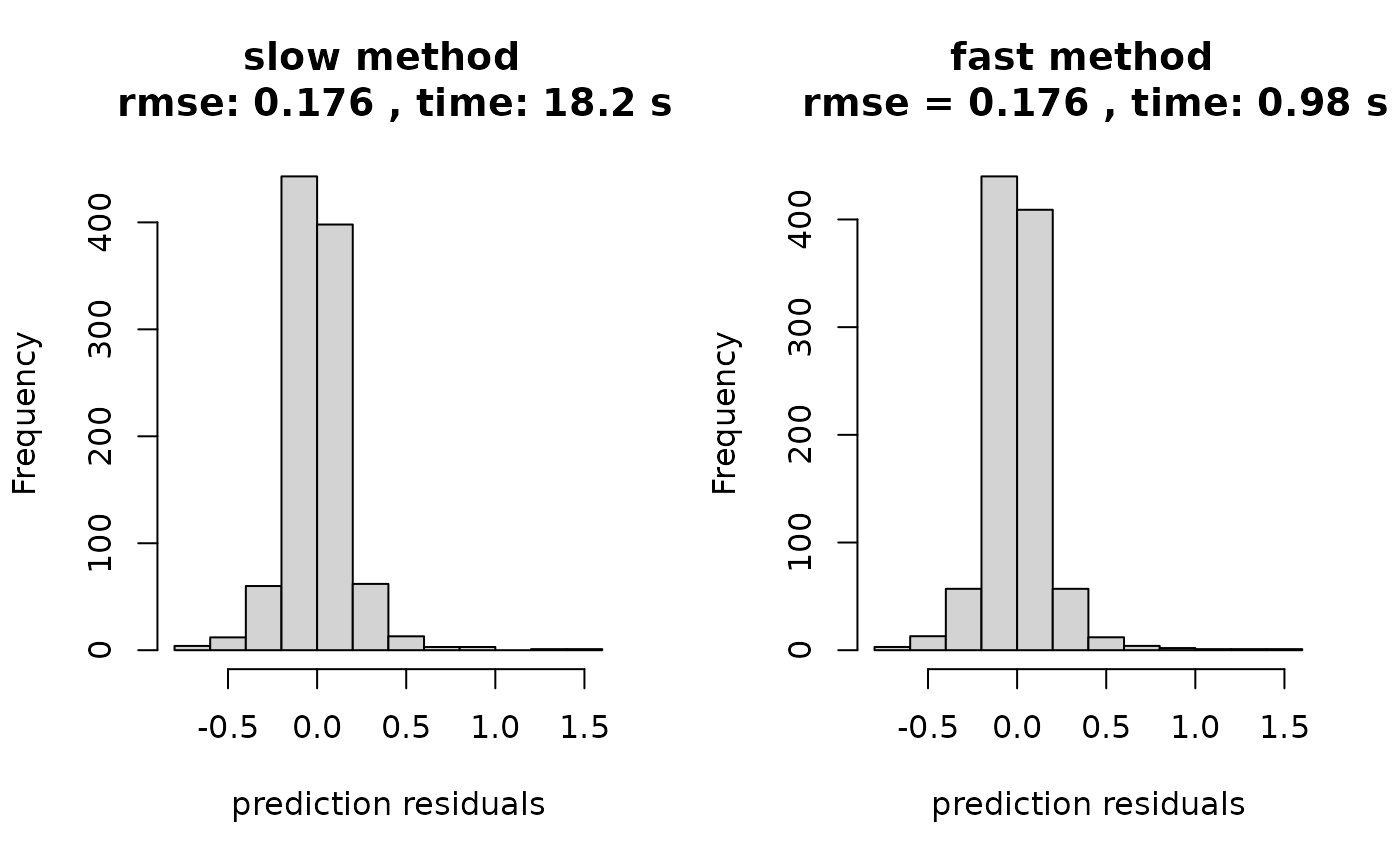
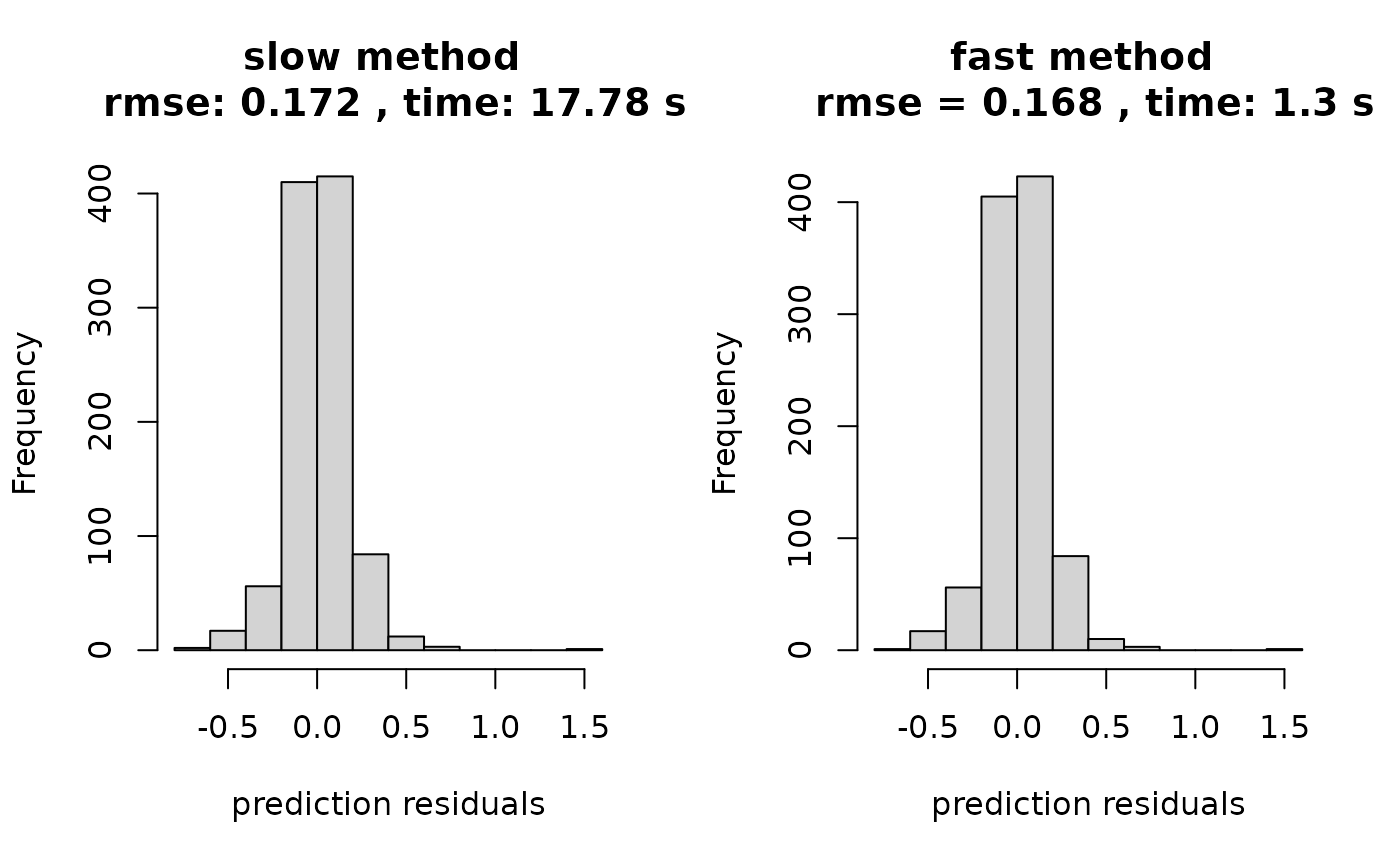
Built site for outerbase: 0.1.0@d79331a

diff --git a/articles/learning.html b/articles/learning.html
@@ -156,15 +156,15 @@
 <span class="va">coeffhere</span> <span class="op">=</span> <span class="fu"><a href="https://rdrr.io/r/base/rep.html" class="external-link">rep</a></span><span class="op">(</span><span class="fl">0</span>,<span class="va">loglik</span><span class="op">$</span><span class="va">nterms</span><span class="op">)</span>
 <span class="va">loglik</span><span class="op">$</span><span class="fu">update</span><span class="op">(</span><span class="va">coeffhere</span><span class="op">)</span> <span class="co"># update it to get gradients</span>
 <span class="va">loglik</span><span class="op">$</span><span class="va">val</span>
-<span class="co">#&gt; [1] -158.9773</span>
+<span class="co">#&gt; [1] -167.617</span>
 <span class="fu"><a href="https://rdrr.io/r/utils/head.html" class="external-link">head</a></span><span class="op">(</span><span class="va">loglik</span><span class="op">$</span><span class="va">grad</span><span class="op">)</span> <span class="co"># dim 60 for number of coeffients</span>
 <span class="co">#&gt;            [,1]</span>
-<span class="co">#&gt; [1,]  0.1119043</span>
-<span class="co">#&gt; [2,] -0.8130878</span>
-<span class="co">#&gt; [3,]  2.6554610</span>
-<span class="co">#&gt; [4,] -0.2983242</span>
-<span class="co">#&gt; [5,] -0.7287453</span>
-<span class="co">#&gt; [6,]  0.4638779</span></code></pre></div>
+<span class="co">#&gt; [1,] -0.1142062</span>
+<span class="co">#&gt; [2,] -0.7362125</span>
+<span class="co">#&gt; [3,] -0.4712837</span>
+<span class="co">#&gt; [4,]  3.5520678</span>
+<span class="co">#&gt; [5,]  0.2677359</span>
+<span class="co">#&gt; [6,] -0.5759347</span></code></pre></div>
 <p>A reasonable predictor also needs prior on the coefficients. This tells us what distribution we expect on the coefficients.</p>
 <div class="sourceCode" id="cb10"><pre class="downlit sourceCode r">
 <code class="sourceCode R"><span class="va">logpr</span> <span class="op">=</span> <span class="fu">new</span><span class="op">(</span><span class="va">logpr_gauss</span>, <span class="va">om</span>, <span class="va">terms</span><span class="op">)</span></code></pre></div>
@@ -176,7 +176,7 @@
 <span class="va">logpdf</span><span class="op">$</span><span class="fu">updatepara</span><span class="op">(</span><span class="va">para0</span><span class="op">)</span>
 <span class="fu"><a href="../reference/getpara.html">getpara</a></span><span class="op">(</span><span class="va">logpdf</span><span class="op">)</span>
 <span class="co">#&gt; noisescale coeffscale </span>
-<span class="co">#&gt;    3.08248    4.00000</span></code></pre></div>
+<span class="co">#&gt;   2.883507   4.000000</span></code></pre></div>
 <p>The coefficients <code>coeff</code> are considered ancillary parameters that need to be optimized out (or something more sophisticated, hint on current research). For this class, it is easiest to do this via <code>lpdf$optnewton</code>, which takes a single Newton step to optimize the coefficients.</p>
 <div class="sourceCode" id="cb12"><pre class="downlit sourceCode r">
 <code class="sourceCode R"><span class="va">logpdf</span><span class="op">$</span><span class="fu">optnewton</span><span class="op">(</span><span class="op">)</span></code></pre></div>
@@ -207,16 +207,16 @@
 <code class="sourceCode R"><span class="va">logpdf</span><span class="op">$</span><span class="fu">optnewton</span><span class="op">(</span><span class="op">)</span>
 <span class="va">logpdf</span><span class="op">$</span><span class="va">gradhyp</span>    <span class="co"># dim 6 for all hyperparameter</span>
 <span class="co">#&gt;            [,1]</span>
-<span class="co">#&gt; [1,] -1.5804993</span>
-<span class="co">#&gt; [2,]  0.1362988</span>
-<span class="co">#&gt; [3,]  7.3195108</span>
-<span class="co">#&gt; [4,]  0.7360618</span>
-<span class="co">#&gt; [5,]  6.6477736</span>
-<span class="co">#&gt; [6,]  0.7611804</span>
+<span class="co">#&gt; [1,] -0.5379479</span>
+<span class="co">#&gt; [2,]  0.2656740</span>
+<span class="co">#&gt; [3,]  9.1485696</span>
+<span class="co">#&gt; [4,]  0.9366525</span>
+<span class="co">#&gt; [5,]  8.8462368</span>
+<span class="co">#&gt; [6,]  0.8878728</span>
 <span class="va">logpdf</span><span class="op">$</span><span class="va">gradpara</span>   <span class="co"># dim 2 since 2 parameters</span>
 <span class="co">#&gt;            [,1]</span>
-<span class="co">#&gt; [1,] -18.605157</span>
-<span class="co">#&gt; [2,]  -1.626949</span></code></pre></div>
+<span class="co">#&gt; [1,] -17.314951</span>
+<span class="co">#&gt; [2,]  -3.696204</span></code></pre></div>
 <p>This allows us to use custom functions to learn these hyperparameters to give maximum predictive power. The goal right now is a single point estimate of these hyperparameters. One has to be very careful to keep these in good ranges, and the call below will make sure to return <code>-inf</code> if there is a problem with the chosen hyperparameters.</p>
 <div class="sourceCode" id="cb16"><pre class="downlit sourceCode r">
 <code class="sourceCode R"><span class="va">totobj</span> <span class="op">=</span> <span class="kw">function</span><span class="op">(</span><span class="va">hypl</span><span class="op">)</span> <span class="op">{</span> <span class="co">#my optimization function for tuning</span>
@@ -238,50 +238,56 @@
 <code class="sourceCode R"><span class="va">hypl</span> <span class="op">=</span> <span class="fu"><a href="https://rdrr.io/r/base/list.html" class="external-link">list</a></span><span class="op">(</span>para <span class="op">=</span> <span class="fu"><a href="../reference/getpara.html">getpara</a></span><span class="op">(</span><span class="va">logpdf</span><span class="op">)</span>, hyp <span class="op">=</span> <span class="fu"><a href="../reference/gethyp.html">gethyp</a></span><span class="op">(</span><span class="va">om</span><span class="op">)</span><span class="op">)</span>
 <span class="fu">totobj</span><span class="op">(</span><span class="va">hypl</span><span class="op">)</span>
 <span class="co">#&gt; $val</span>
-<span class="co">#&gt; [1] 87.26913</span>
+<span class="co">#&gt; [1] 83.1685</span>
 <span class="co">#&gt; </span>
 <span class="co">#&gt; $gval</span>
 <span class="co">#&gt; $gval$para</span>
 <span class="co">#&gt;           [,1]</span>
-<span class="co">#&gt; [1,] 18.605157</span>
-<span class="co">#&gt; [2,]  1.126949</span>
+<span class="co">#&gt; [1,] 17.314951</span>
+<span class="co">#&gt; [2,]  3.196204</span>
 <span class="co">#&gt; </span>
 <span class="co">#&gt; $gval$hyp</span>
 <span class="co">#&gt;             [,1]</span>
-<span class="co">#&gt; [1,]  -3.7766436</span>
-<span class="co">#&gt; [2,]  -0.1362988</span>
-<span class="co">#&gt; [3,] -12.6766537</span>
-<span class="co">#&gt; [4,]  -0.7360618</span>
-<span class="co">#&gt; [5,] -12.0049165</span>
-<span class="co">#&gt; [6,]  -0.7611804</span>
+<span class="co">#&gt; [1,]  -4.8191949</span>
+<span class="co">#&gt; [2,]  -0.2656740</span>
+<span class="co">#&gt; [3,] -14.5057125</span>
+<span class="co">#&gt; [4,]  -0.9366525</span>
+<span class="co">#&gt; [5,] -14.2033796</span>
+<span class="co">#&gt; [6,]  -0.8878728</span>
 <span class="va">opth</span> <span class="op">=</span> <span class="fu"><a href="../reference/BFGS_std.html">BFGS_std</a></span><span class="op">(</span><span class="va">totobj</span>, <span class="va">hypl</span>, verbose<span class="op">=</span><span class="fl">3</span><span class="op">)</span> <span class="co">#</span>
 <span class="co">#&gt; [1] "doing opt..."</span>
 <span class="co">#&gt; [1] "Wolfe conditions"</span>
-<span class="co">#&gt; [1]  -2.527114 -45.089116</span>
-<span class="co">#&gt; [1] 84.74152</span>
+<span class="co">#&gt; [1]  -3.108195 -45.489967</span>
+<span class="co">#&gt; [1] 80.05974</span>
 <span class="co">#&gt; [1] "Wolfe conditions"</span>
-<span class="co">#&gt; [1] -1.0278201  0.7589383</span>
-<span class="co">#&gt; [1] 77.25422</span>
+<span class="co">#&gt; [1] -1.1202703  0.7819948</span>
+<span class="co">#&gt; [1] 75.77655</span>
 <span class="co">#&gt; [1] "Wolfe conditions"</span>
-<span class="co">#&gt; [1] -13.69616 -52.67214</span>
-<span class="co">#&gt; [1] 63.55475</span>
+<span class="co">#&gt; [1] -14.34444 -19.93960</span>
+<span class="co">#&gt; [1] 61.43021</span>
 <span class="co">#&gt; [1] "Wolfe conditions"</span>
-<span class="co">#&gt; [1]  -8.325354 -16.041241</span>
-<span class="co">#&gt; [1] 55.22768</span>
+<span class="co">#&gt; [1] -5.327744 -4.157325</span>
+<span class="co">#&gt; [1] 56.1018</span>
 <span class="co">#&gt; [1] "Wolfe conditions"</span>
-<span class="co">#&gt; [1] -7.804353 -1.335376</span>
-<span class="co">#&gt; [1] 47.42244</span>
+<span class="co">#&gt; [1] -6.808514 -3.315549</span>
+<span class="co">#&gt; [1] 49.29249</span>
 <span class="co">#&gt; [1] "Wolfe conditions"</span>
-<span class="co">#&gt; [1] -16.00359 -22.97817</span>
-<span class="co">#&gt; [1] 31.41597</span>
+<span class="co">#&gt; [1] -9.311435 -8.292266</span>
+<span class="co">#&gt; [1] 39.97985</span>
 <span class="co">#&gt; [1] "Wolfe conditions"</span>
-<span class="co">#&gt; [1] -0.979854 -2.293233</span>
-<span class="co">#&gt; [1] 30.43589</span>
+<span class="co">#&gt; [1] -5.732378 -3.352411</span>
+<span class="co">#&gt; [1] 34.24677</span>
 <span class="co">#&gt; [1] "Wolfe conditions"</span>
-<span class="co">#&gt; [1] -0.0514279 -0.4289897</span>
-<span class="co">#&gt; [1] 30.38443</span>
+<span class="co">#&gt; [1] -5.021418 -6.928486</span>
+<span class="co">#&gt; [1] 29.22464</span>
 <span class="co">#&gt; [1] "Wolfe conditions"</span>
-<span class="co">#&gt; [1] -0.04258925 -0.10586358</span>
+<span class="co">#&gt; [1] -0.6595542 -5.5666767</span>
+<span class="co">#&gt; [1] 28.56484</span>
+<span class="co">#&gt; [1] "Wolfe conditions"</span>
+<span class="co">#&gt; [1] -0.4196691 -0.5877661</span>
+<span class="co">#&gt; [1] 28.14511</span>
+<span class="co">#&gt; [1] "Wolfe conditions"</span>
+<span class="co">#&gt; [1] -0.04979228 -0.05796315</span>
 <span class="co">#&gt; [1] "finished opt..."</span></code></pre></div>
 <p>Then we just have to update out parameters and re-optimize.</p>
 <div class="sourceCode" id="cb18"><pre class="downlit sourceCode r">
@@ -295,31 +301,37 @@
                  verbose <span class="op">=</span> <span class="fl">3</span>, newt<span class="op">=</span> <span class="cn">T</span><span class="op">)</span>  
 <span class="co">#&gt; [1] "doing opt..."</span>
 <span class="co">#&gt; [1] "Wolfe conditions"</span>
-<span class="co">#&gt; [1]  -2.527114 -45.089116</span>
-<span class="co">#&gt; [1] 84.74152</span>
+<span class="co">#&gt; [1]  -3.108195 -45.489967</span>
+<span class="co">#&gt; [1] 80.05974</span>
 <span class="co">#&gt; [1] "Wolfe conditions"</span>
-<span class="co">#&gt; [1] -1.0278201  0.7589383</span>
-<span class="co">#&gt; [1] 77.25422</span>
+<span class="co">#&gt; [1] -1.1202703  0.7819948</span>
+<span class="co">#&gt; [1] 75.77655</span>
 <span class="co">#&gt; [1] "Wolfe conditions"</span>
-<span class="co">#&gt; [1] -13.69616 -52.67214</span>
-<span class="co">#&gt; [1] 63.55475</span>
+<span class="co">#&gt; [1] -14.34444 -19.93960</span>
+<span class="co">#&gt; [1] 61.43021</span>
 <span class="co">#&gt; [1] "Wolfe conditions"</span>
-<span class="co">#&gt; [1]  -8.325354 -16.041241</span>
-<span class="co">#&gt; [1] 55.22768</span>
+<span class="co">#&gt; [1] -5.327744 -4.157325</span>
+<span class="co">#&gt; [1] 56.1018</span>
 <span class="co">#&gt; [1] "Wolfe conditions"</span>
-<span class="co">#&gt; [1] -7.804353 -1.335376</span>
-<span class="co">#&gt; [1] 47.42244</span>
+<span class="co">#&gt; [1] -6.808514 -3.315549</span>
+<span class="co">#&gt; [1] 49.29249</span>
 <span class="co">#&gt; [1] "Wolfe conditions"</span>
-<span class="co">#&gt; [1] -16.00359 -22.97817</span>
-<span class="co">#&gt; [1] 31.41597</span>
+<span class="co">#&gt; [1] -9.311435 -8.292266</span>
+<span class="co">#&gt; [1] 39.97985</span>
 <span class="co">#&gt; [1] "Wolfe conditions"</span>
-<span class="co">#&gt; [1] -0.979854 -2.293233</span>
-<span class="co">#&gt; [1] 30.43589</span>
+<span class="co">#&gt; [1] -5.732378 -3.352411</span>
+<span class="co">#&gt; [1] 34.24677</span>
 <span class="co">#&gt; [1] "Wolfe conditions"</span>
-<span class="co">#&gt; [1] -0.0514279 -0.4289897</span>
-<span class="co">#&gt; [1] 30.38443</span>
+<span class="co">#&gt; [1] -5.021418 -6.928486</span>
+<span class="co">#&gt; [1] 29.22464</span>
 <span class="co">#&gt; [1] "Wolfe conditions"</span>
-<span class="co">#&gt; [1] -0.04258925 -0.10586358</span>
+<span class="co">#&gt; [1] -0.6595542 -5.5666767</span>
+<span class="co">#&gt; [1] 28.56484</span>
+<span class="co">#&gt; [1] "Wolfe conditions"</span>
+<span class="co">#&gt; [1] -0.4196691 -0.5877661</span>
+<span class="co">#&gt; [1] 28.14511</span>
+<span class="co">#&gt; [1] "Wolfe conditions"</span>
+<span class="co">#&gt; [1] -0.04979228 -0.05796315</span>
 <span class="co">#&gt; [1] "finished opt..."</span></code></pre></div>
 <p>The revised predictions are then built after hyperparameter optimization where we find improved predictive accuracy in nearly every category.</p>
 <div class="sourceCode" id="cb20"><pre class="downlit sourceCode r">

diff --git a/articles/basebasics.html b/articles/basebasics.html
@@ -232,11 +232,11 @@
 <span class="fu"><a href="https://rdrr.io/r/utils/head.html" class="external-link">head</a></span><span class="op">(</span><span class="va">terms</span><span class="op">)</span>
 <span class="co">#&gt;      [,1] [,2] [,3]</span>
 <span class="co">#&gt; [1,]    0    0    0</span>
-<span class="co">#&gt; [2,]    0    1    0</span>
-<span class="co">#&gt; [3,]    0    0    1</span>
-<span class="co">#&gt; [4,]    1    0    0</span>
-<span class="co">#&gt; [5,]    0    1    1</span>
-<span class="co">#&gt; [6,]    1    1    0</span></code></pre></div>
+<span class="co">#&gt; [2,]    0    0    1</span>
+<span class="co">#&gt; [3,]    1    0    0</span>
+<span class="co">#&gt; [4,]    0    1    0</span>
+<span class="co">#&gt; [5,]    1    1    0</span>
+<span class="co">#&gt; [6,]    1    0    1</span></code></pre></div>
 <p><code>outermod$getvar</code> will tell us the vector of variances associated with these coefficients at these <code>terms</code>.</p>
 <div class="sourceCode" id="cb20"><pre class="downlit sourceCode r">
 <code class="sourceCode R"><span class="va">covcoeff</span> <span class="op">=</span> <span class="fu"><a href="https://rdrr.io/r/base/vector.html" class="external-link">as.vector</a></span><span class="op">(</span><span class="va">om</span><span class="op">$</span><span class="fu">getvar</span><span class="op">(</span><span class="va">terms</span><span class="op">)</span><span class="op">)</span></code></pre></div>
@@ -250,12 +250,12 @@
   <span class="va">ob</span><span class="op">$</span><span class="fu">getbase</span><span class="op">(</span><span class="fl">3</span><span class="op">)</span><span class="op">[</span>,<span class="va">terms</span><span class="op">[</span><span class="va">termno</span>,<span class="fl">3</span><span class="op">]</span><span class="op">+</span><span class="fl">1</span><span class="op">]</span>
 
 <span class="fu"><a href="https://rdrr.io/r/base/cbind.html" class="external-link">cbind</a></span><span class="op">(</span><span class="va">basevec</span><span class="op">[</span><span class="fl">1</span><span class="op">:</span><span class="fl">5</span><span class="op">]</span>,<span class="va">basismat</span><span class="op">[</span><span class="fl">1</span><span class="op">:</span><span class="fl">5</span>,<span class="fl">5</span><span class="op">]</span><span class="op">)</span> <span class="co">#equal</span>
-<span class="co">#&gt;            [,1]       [,2]</span>
-<span class="co">#&gt; [1,] -0.3904776 -0.3904776</span>
-<span class="co">#&gt; [2,]  1.1182864  1.1182864</span>
-<span class="co">#&gt; [3,]  1.5106317  1.5106317</span>
-<span class="co">#&gt; [4,]  1.5916723  1.5916723</span>
-<span class="co">#&gt; [5,] -1.7484999 -1.7484999</span></code></pre></div>
+<span class="co">#&gt;             [,1]        [,2]</span>
+<span class="co">#&gt; [1,]  1.04581481  1.04581481</span>
+<span class="co">#&gt; [2,]  0.48401755  0.48401755</span>
+<span class="co">#&gt; [3,]  1.26856977  1.26856977</span>
+<span class="co">#&gt; [4,] -0.24727429 -0.24727429</span>
+<span class="co">#&gt; [5,] -0.08951811 -0.08951811</span></code></pre></div>
 </div>
 </div>
 <div class="section level2">
@@ -268,18 +268,18 @@
 
 <span class="fu"><a href="https://rdrr.io/r/base/print.html" class="external-link">print</a></span><span class="op">(</span><span class="fu"><a href="https://rdrr.io/r/base/Round.html" class="external-link">round</a></span><span class="op">(</span><span class="va">cormattot</span><span class="op">[</span><span class="fl">1</span><span class="op">:</span><span class="fl">5</span>,<span class="fl">1</span><span class="op">:</span><span class="fl">5</span><span class="op">]</span>,<span class="fl">3</span><span class="op">)</span><span class="op">)</span> <span class="co"># typical gp</span>
 <span class="co">#&gt;       [,1]  [,2]  [,3]  [,4]  [,5]</span>
-<span class="co">#&gt; [1,] 1.000 0.575 0.827 0.491 0.411</span>
-<span class="co">#&gt; [2,] 0.575 1.000 0.344 0.928 0.414</span>
-<span class="co">#&gt; [3,] 0.827 0.344 1.000 0.314 0.519</span>
-<span class="co">#&gt; [4,] 0.491 0.928 0.314 1.000 0.513</span>
-<span class="co">#&gt; [5,] 0.411 0.414 0.519 0.513 1.000</span>
+<span class="co">#&gt; [1,] 1.000 0.985 0.531 0.545 0.802</span>
+<span class="co">#&gt; [2,] 0.985 1.000 0.537 0.597 0.860</span>
+<span class="co">#&gt; [3,] 0.531 0.537 1.000 0.875 0.729</span>
+<span class="co">#&gt; [4,] 0.545 0.597 0.875 1.000 0.857</span>
+<span class="co">#&gt; [5,] 0.802 0.860 0.729 0.857 1.000</span>
 <span class="fu"><a href="https://rdrr.io/r/base/print.html" class="external-link">print</a></span><span class="op">(</span><span class="fu"><a href="https://rdrr.io/r/base/Round.html" class="external-link">round</a></span><span class="op">(</span><span class="va">cormatob</span><span class="op">[</span><span class="fl">1</span><span class="op">:</span><span class="fl">5</span>,<span class="fl">1</span><span class="op">:</span><span class="fl">5</span><span class="op">]</span>,<span class="fl">3</span><span class="op">)</span><span class="op">)</span> <span class="co"># outerbase</span>
 <span class="co">#&gt;       [,1]  [,2]  [,3]  [,4]  [,5]</span>
-<span class="co">#&gt; [1,] 1.000 0.575 0.827 0.491 0.411</span>
-<span class="co">#&gt; [2,] 0.575 0.999 0.344 0.928 0.414</span>
-<span class="co">#&gt; [3,] 0.827 0.344 1.000 0.314 0.519</span>
-<span class="co">#&gt; [4,] 0.491 0.928 0.314 1.000 0.513</span>
-<span class="co">#&gt; [5,] 0.411 0.414 0.519 0.513 0.999</span></code></pre></div>
+<span class="co">#&gt; [1,] 1.000 0.985 0.530 0.545 0.802</span>
+<span class="co">#&gt; [2,] 0.985 1.000 0.537 0.597 0.860</span>
+<span class="co">#&gt; [3,] 0.530 0.537 0.999 0.875 0.729</span>
+<span class="co">#&gt; [4,] 0.545 0.597 0.875 1.000 0.857</span>
+<span class="co">#&gt; [5,] 0.802 0.860 0.729 0.857 1.000</span></code></pre></div>
 <p>They means that we can leverage <a href="https://en.wikipedia.org/wiki/Bayesian_linear_regression" class="external-link">Bayesian linear regression</a> to do prediction. This will require assuming that there is some <code>noisevar</code>, which is also called the nugget in the Gaussian process literature.</p>
 <div class="sourceCode" id="cb23"><pre class="downlit sourceCode r">
 <code class="sourceCode R"><span class="va">noisevar</span> <span class="op">=</span> <span class="fl">10</span><span class="op">^</span><span class="op">(</span><span class="op">-</span><span class="fl">4</span><span class="op">)</span>

diff --git a/articles/speed.html b/articles/speed.html
@@ -165,7 +165,7 @@
 <span class="va">yhat_slow</span> <span class="op">=</span> <span class="fu"><a href="https://rdrr.io/r/base/vector.html" class="external-link">as.vector</a></span><span class="op">(</span><span class="va">pred_slow</span><span class="op">$</span><span class="fu">mean</span><span class="op">(</span><span class="op">)</span><span class="op">)</span>
 <span class="fu"><a href="https://rdrr.io/r/base/print.html" class="external-link">print</a></span><span class="op">(</span><span class="va">t_slow</span><span class="op">)</span>
 <span class="co">#&gt;    user  system elapsed </span>
-<span class="co">#&gt;  19.057   0.025  18.202</span></code></pre></div>
+<span class="co">#&gt;  18.466   0.012  17.782</span></code></pre></div>
 <div class="sourceCode" id="cb15"><pre class="downlit sourceCode r">
 <code class="sourceCode R"><span class="va">ptm</span> <span class="op">=</span> <span class="fu"><a href="https://rdrr.io/r/base/proc.time.html" class="external-link">proc.time</a></span><span class="op">(</span><span class="op">)</span>
 <span class="va">opth</span> <span class="op">=</span> <span class="fu"><a href="../reference/BFGS_lpdf.html">BFGS_lpdf</a></span><span class="op">(</span><span class="va">om</span>, <span class="va">logpdf_fast</span>, 
@@ -176,7 +176,7 @@
 <span class="va">yhat_fast</span> <span class="op">=</span> <span class="fu"><a href="https://rdrr.io/r/base/vector.html" class="external-link">as.vector</a></span><span class="op">(</span><span class="va">pred_fast</span><span class="op">$</span><span class="fu">mean</span><span class="op">(</span><span class="op">)</span><span class="op">)</span>
 <span class="fu"><a href="https://rdrr.io/r/base/print.html" class="external-link">print</a></span><span class="op">(</span><span class="va">t_fast</span><span class="op">)</span>
 <span class="co">#&gt;    user  system elapsed </span>
-<span class="co">#&gt;   1.490   0.060   0.975</span></code></pre></div>
+<span class="co">#&gt;   1.996   0.068   1.304</span></code></pre></div>
 </div>
 <div class="section level2">
 <h2 id="comparison-of-results">Comparison of results<a class="anchor" aria-label="anchor" href="#comparison-of-results"></a>
